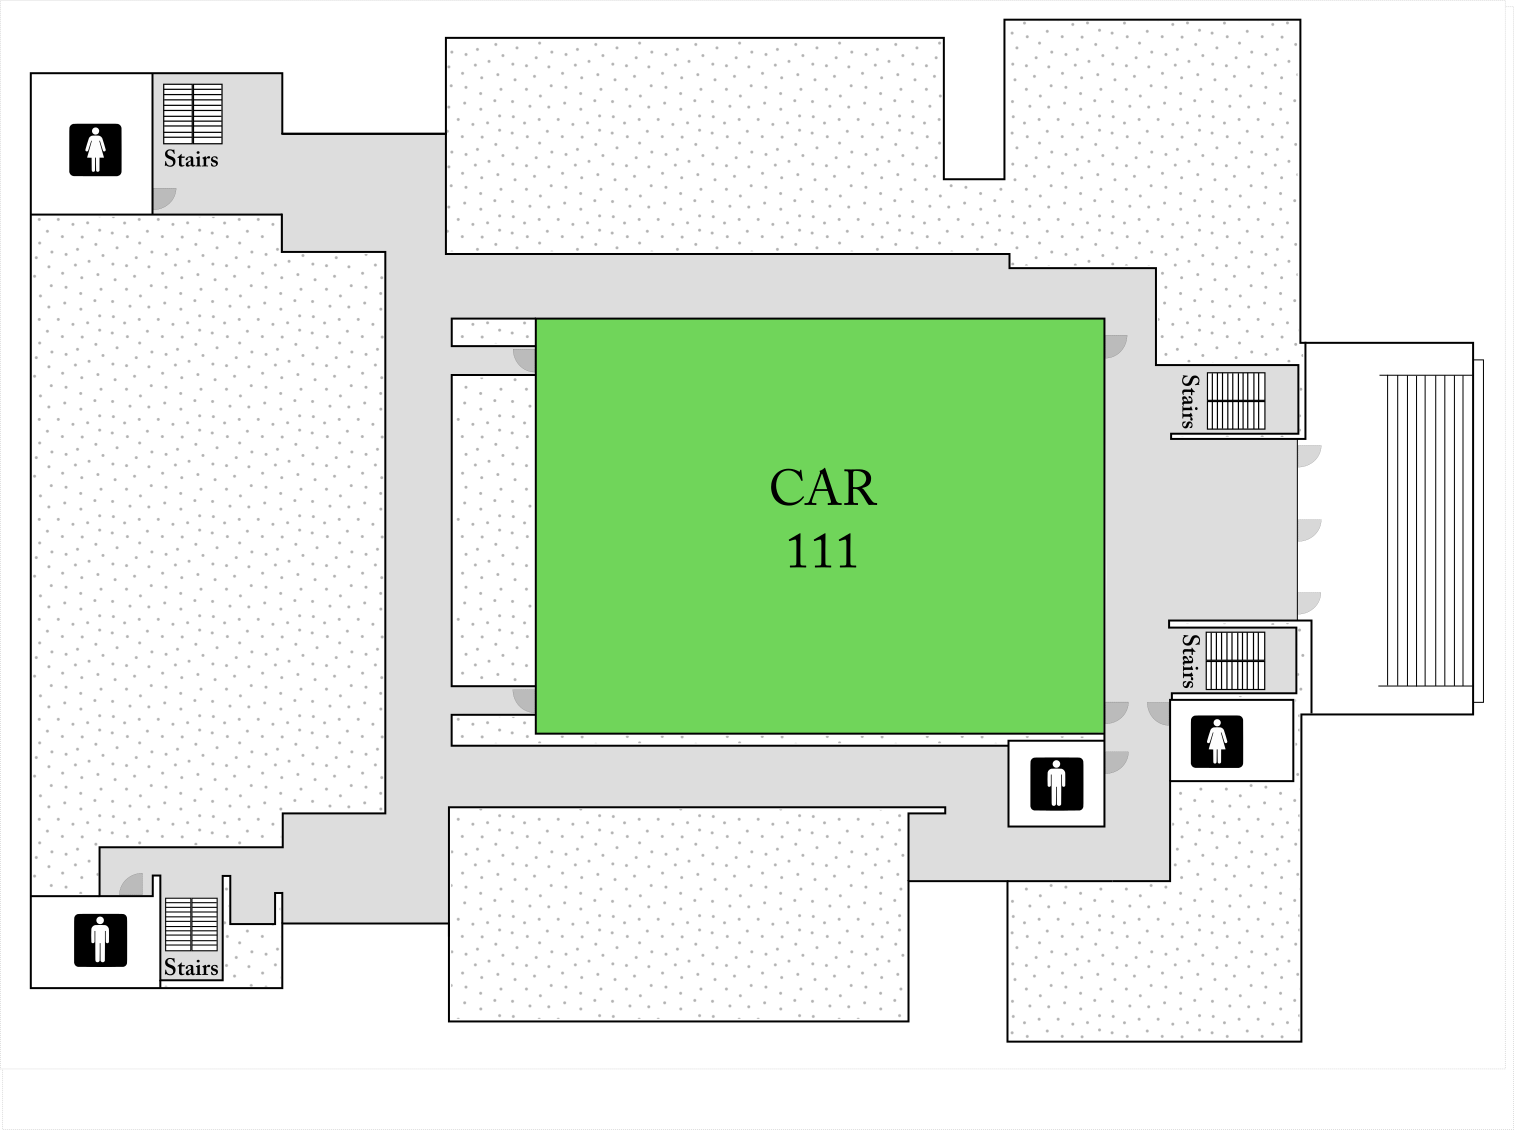
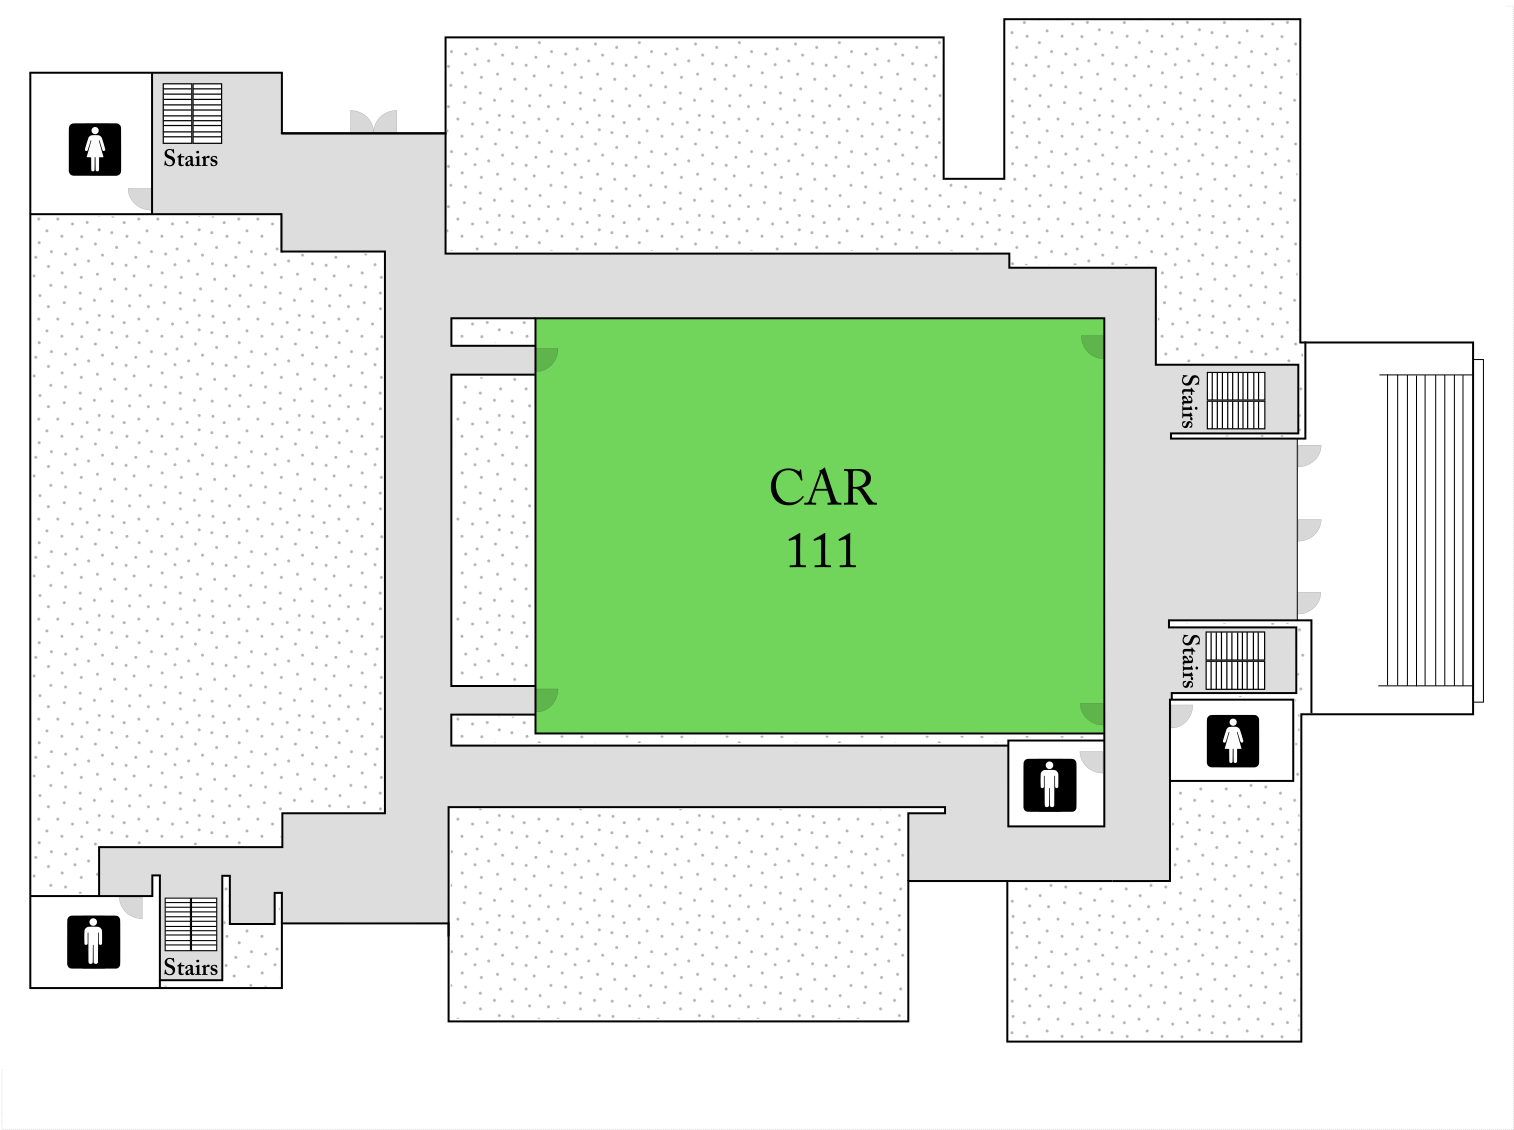
updated maps and added building outside

diff --git a/www/index.html b/www/index.html
@@ -242,6 +242,7 @@
           <option value="carroll0">Carroll, ground fl.</option>
           <option value="carroll1">Carroll, 1st fl.</option>
           <option value="chapman">Chapman</option>
+          <option value="outside">Outside buildings</option>
         </select>
       </div>
       <div id="map-controls">

diff --git a/www/js/index.js b/www/js/index.js
@@ -119,7 +119,8 @@ var app = {
 					'phillips3',
 					'carroll0',
 					'carroll1',
-					'chapman'
+					'chapman',
+					'outside'
 				];
 				$("#map-list-select").on("change", function() {
 					var map = maps[this.selectedIndex];
